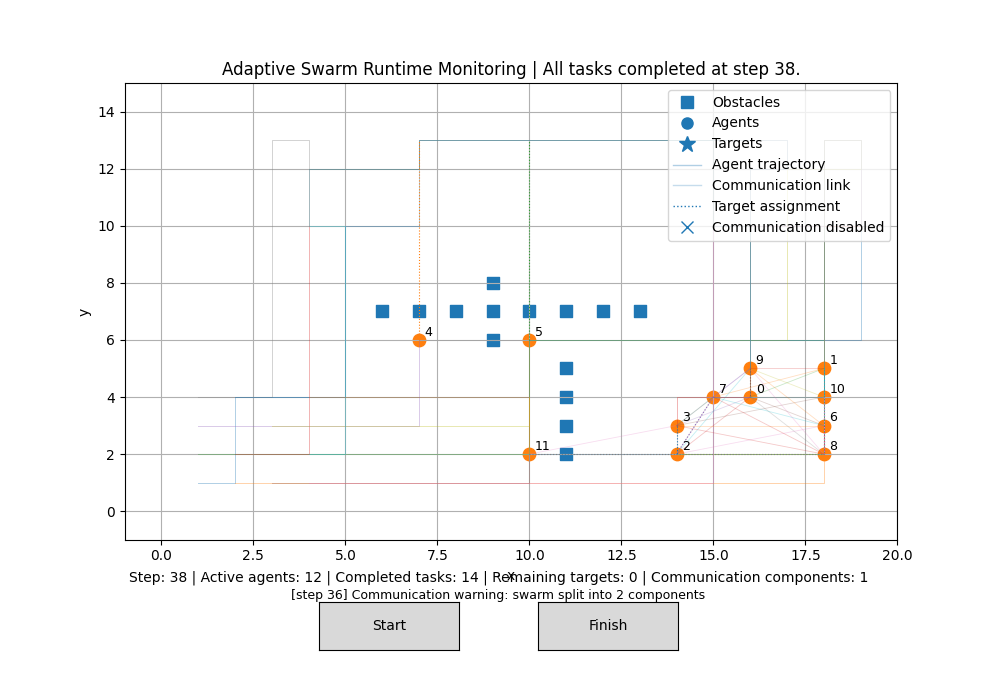
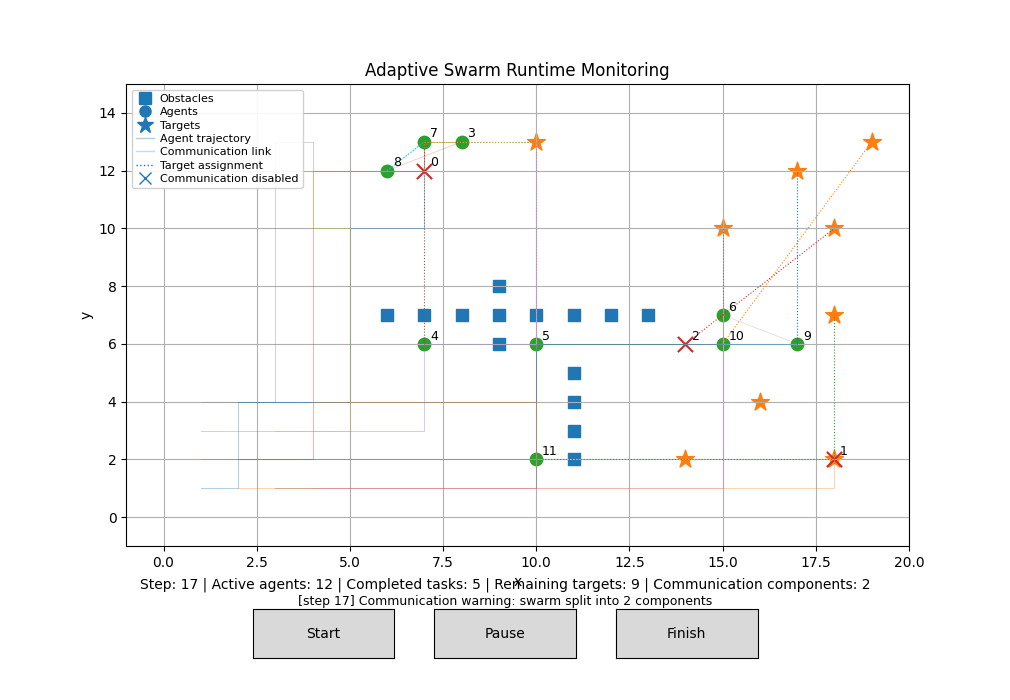
added pause button

diff --git a/swarm/interactive_visualization.py b/swarm/interactive_visualization.py
@@ -24,13 +24,16 @@ class InteractiveSwarmView:
         self.figure, self.axis = plt.subplots(figsize=(10, 7))
         self.figure.subplots_adjust(bottom=0.22)
 
-        start_axis = self.figure.add_axes([0.32, 0.06, 0.14, 0.07])
-        finish_axis = self.figure.add_axes([0.54, 0.06, 0.14, 0.07])
+        start_axis = self.figure.add_axes([0.25, 0.06, 0.14, 0.07])
+        pause_axis = self.figure.add_axes([0.43, 0.06, 0.14, 0.07])
+        finish_axis = self.figure.add_axes([0.61, 0.06, 0.14, 0.07])
 
         self.start_button = Button(start_axis, "Start")
+        self.pause_button = Button(pause_axis, "Pause")
         self.finish_button = Button(finish_axis, "Finish")
 
         self.start_button.on_clicked(self._start)
+        self.pause_button.on_clicked(self._pause)
         self.finish_button.on_clicked(self._finish)
 
         self.status_text = self.figure.text(0.5, 0.16, "", ha="center", fontsize=10)
@@ -52,12 +55,18 @@ class InteractiveSwarmView:
         """Start or resume the simulation."""
         if not self.simulation.finished:
             self.running = True
+            self._draw()
 
     def _finish(self, event) -> None:
         """Stop the simulation manually."""
         self.running = False
         self.simulation.finish_manually()
         self._print_summary_once()
+        self._draw()
+
+    def _pause(self, event) -> None:
+        """Pause the simulation without finalizing it."""
+        self.running = False
         self._draw()
 
     def _animate(self, frame_index: int) -> None:

diff --git a/README.md b/README.md
@@ -21,7 +21,7 @@ python main.py
 
 Then press Start in the simulation window.
 
-Press Finish to stop manually.
+Press Pause to stop temporarily. Press Start again to continue. Press Finish to stop the simulation permanently.
 
 ## What the window shows
 
@@ -61,3 +61,12 @@ The interactive view includes two extra layers:
 
 2. Communication links  
    Agents within communication radius are connected by thin lines. When communication is disabled for agents 0, 1, and 2, those agents are shown with x markers and their communication links disappear. This makes communication fragmentation visible directly in the simulation window.
+
+
+## Controls
+
+Start starts the simulation or resumes it after Pause.
+
+Pause stops the animation temporarily without changing the simulation state.
+
+Finish ends the simulation manually. After Finish, Start does not resume the run because the simulation is finalized.